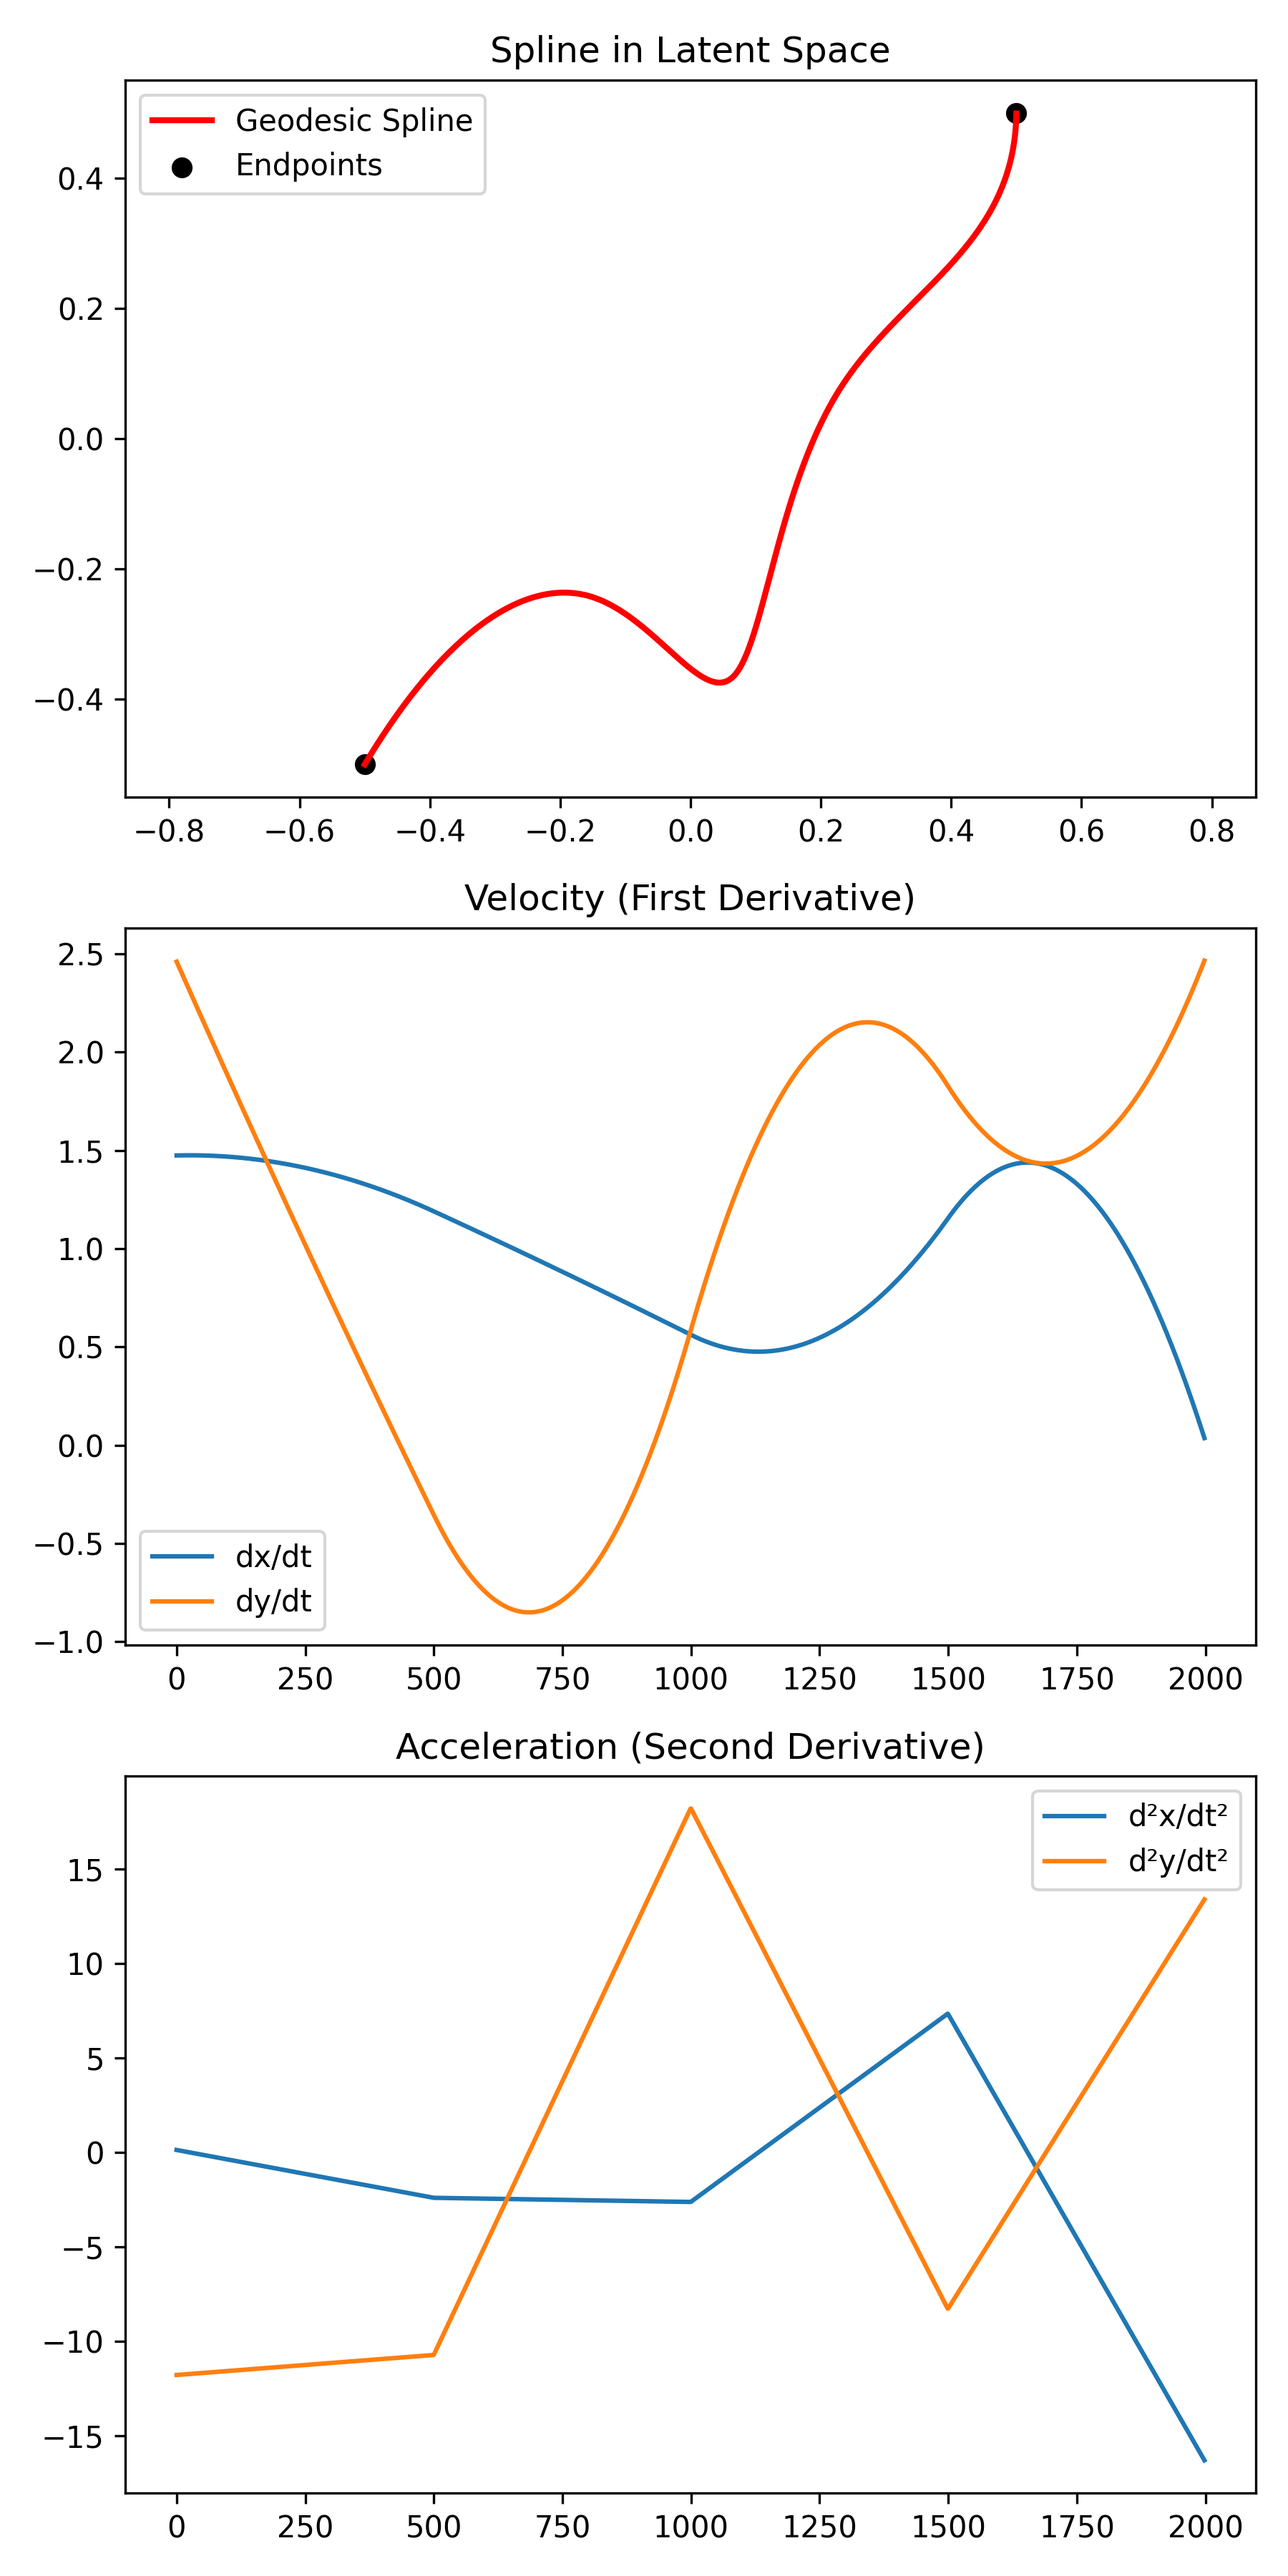
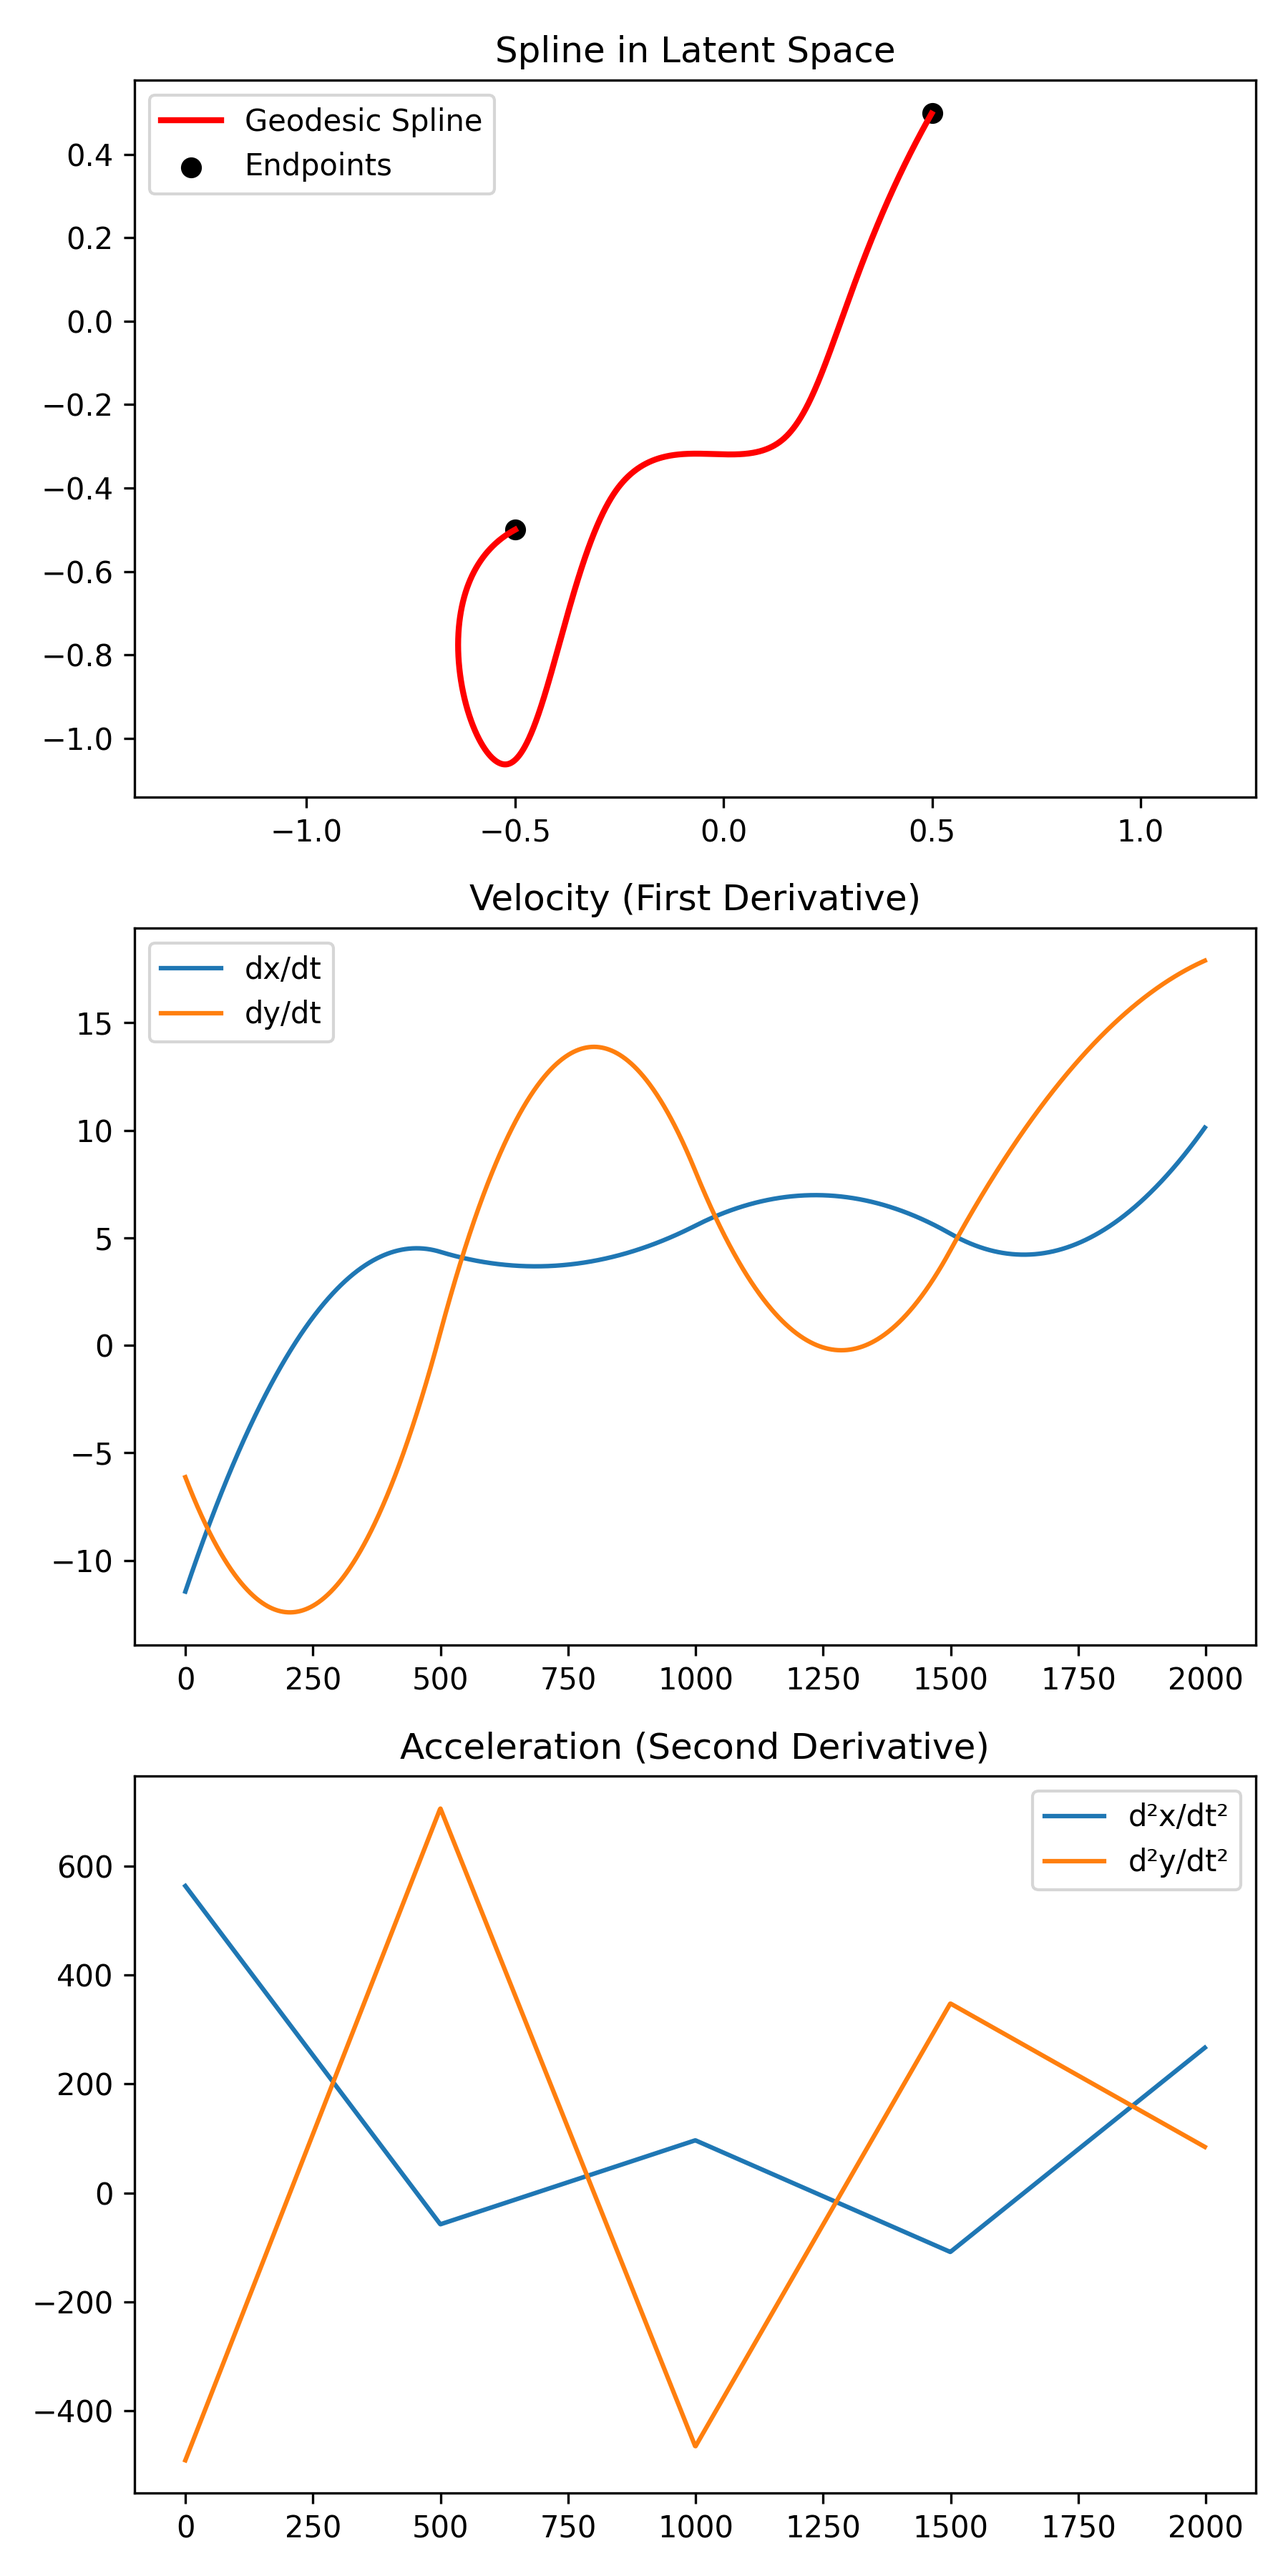
not yet 2nd

diff --git a/src/optimize_energy.py b/src/optimize_energy.py
@@ -6,6 +6,21 @@ import numpy as np
 from pathlib import Path
 from src.vae import VAE
 
+import random
+import os
+
+def set_seed(seed=12):
+    torch.manual_seed(seed)
+    np.random.seed(seed)
+    random.seed(seed)
+    torch.use_deterministic_algorithms(True)
+    os.environ["CUBLAS_WORKSPACE_CONFIG"] = ":4096:8"  # Needed for deterministic CUDA ops
+
+    if torch.cuda.is_available():
+        torch.cuda.manual_seed_all(seed)
+
+set_seed(12)  
+
 
 class GeodesicSpline(nn.Module):
     def __init__(self, point_pair, basis, n_poly):
@@ -13,20 +28,10 @@ class GeodesicSpline(nn.Module):
         self.a, self.b = point_pair
         self.n_poly = n_poly
         self.basis = basis
-        self.omega = nn.Parameter(torch.randn(basis.shape[1], self.a.shape[0]))
+        gen = torch.Generator(device=self.a.device).manual_seed(22)
+        self.omega = nn.Parameter(torch.randn(basis.shape[1], self.a.shape[0], generator=gen, device=self.a.device))
 
-    # def eval_piecewise_poly(self, t, coeffs):
-    #     if t.ndim == 2 and t.shape[1] == 1:
-    #         t = t.squeeze(1)  # (T,)
-    #     T = t.shape[0]
-    #     n_poly = coeffs.shape[0]
 
-    #     seg_idx = torch.clamp((t * n_poly).floor().long(), max=n_poly - 1)  # (T,)
-    #     local_t = t * n_poly - seg_idx.float()  # (T,)
-    #     powers = torch.stack([local_t**i for i in range(4)], dim=1)  # (T, 4)
-
-    #     segment_coefs = coeffs[seg_idx]  # (T, 4, d)
-    #     return torch.einsum("ti,tid->td", powers, segment_coefs)
     def eval_piecewise_poly(self, t, coeffs):
         t = t.flatten()
         seg_idx = torch.clamp((t * self.n_poly).floor().long(), max=self.n_poly - 1)
@@ -34,7 +39,6 @@ class GeodesicSpline(nn.Module):
         powers = torch.stack([local_t**i for i in range(4)], dim=1)  # (T, 4)
         seg_coefs = coeffs[seg_idx]  # (T, 4, dim)
         return torch.einsum("ti,tid->td", powers, seg_coefs)
-
 
     def forward(self, t):
         coeffs = self.basis @ self.omega  # (4n, dim)
@@ -46,7 +50,7 @@ class GeodesicSpline(nn.Module):
 
 
 def nullspace(C, rtol=1e-10):
-    C = C.to(torch.float64)  # important!
+    C = C.to(torch.float64)  
     U, S, Vh = torch.linalg.svd(C, full_matrices=True)
     rank = (S > rtol * S[0]).sum()
     return Vh.T[:, rank:].contiguous()
@@ -65,25 +69,25 @@ def construct_nullspace_basis(n_poly, device):
     # C0, C1, C2 continuity at internal knots
     for i in range(n_poly - 1):
         si = 4 * i  # start index
-        t = tc[i] # global t at knot i
-        t=1
+        # Local coordinate continuity: tL=1.0 (end of left), tR=0.0 (start of right)
+        tL, tR = 1.0, 0.0
 
-        # C0 continuity
-        c0 = torch.zeros(4 * n_poly, device=device, dtype=torch.float64)
-        c0[si:si+4]     = torch.tensor([1.0, t, t**2, t**3], dtype=torch.float64, device=device)   # left at t=1
-        c0[si+4:si+8]   = -torch.tensor([1.0, 0.0, 0.0, 0.0], dtype=torch.float64, device=device)       # right at t=0
+        # C0: continuity of position
+        c0 = torch.zeros(4 * n_poly, dtype=torch.float64, device=device)
+        c0[si:si+4] = torch.tensor([1, tL, tL**2, tL**3], device=device)
+        c0[si+4:si+8] = -torch.tensor([1, tR, tR**2, tR**3], device=device)
         rows.append(c0)
 
-        # C1 continuity
-        c1 = torch.zeros(4 * n_poly, device=device, dtype=torch.float64)
-        c1[si:si+4]     = torch.tensor([0.0, 1.0, 2.0*t, 3.0*t**2], dtype=torch.float64, device=device)        # d/dt left at t=1
-        c1[si+4:si+8]   = -torch.tensor([0.0, 1.0, 0.0, 0.0], dtype=torch.float64, device=device)       # d/dt right at t=0
+        # C1: continuity of first derivative
+        c1 = torch.zeros(4 * n_poly, dtype=torch.float64, device=device)
+        c1[si:si+4] = torch.tensor([0, 1, 2*tL, 3*tL**2], device=device)
+        c1[si+4:si+8] = -torch.tensor([0, 1, 2*tR, 3*tR**2], device=device)
         rows.append(c1)
 
-        # C2 continuity
-        c2 = torch.zeros(4 * n_poly, device=device, dtype=torch.float64)
-        c2[si:si+4]     = torch.tensor([0.0, 0.0, 2.0, 6.0*t], dtype=torch.float64, device=device)        # d²/dt² left at t=1
-        c2[si+4:si+8]   = -torch.tensor([0.0, 0.0, 2.0, 0.0], dtype=torch.float64, device=device)       # d²/dt² right at t=0
+        # C2: continuity of second derivative
+        c2 = torch.zeros(4 * n_poly, dtype=torch.float64, device=device)
+        c2[si:si+4] = torch.tensor([0, 0, 2, 6*tL], device=device)
+        c2[si+4:si+8] = -torch.tensor([0, 0, 2, 6*tR], device=device)
         rows.append(c2)
 
     C = torch.stack(rows)
@@ -96,61 +100,6 @@ def construct_nullspace_basis(n_poly, device):
     print(f"rank of C: {torch.linalg.matrix_rank(C)}")
     print(f"expected rank: {C.shape[0]}")
     return basis.to(dtype=torch.float32), C.to(dtype=torch.float32)
-
-
-# def construct_nullspace_basis(n_poly, device):
-#     t_knots = torch.linspace(0, 1, n_poly + 1, device=device, dtype=torch.float64)[1:-1]  # (n-1,) internal knots
-
-#     rows = []
-
-#     # Boundary conditions: gamma(0) = 0, gamma(1) = 0
-#     B = torch.zeros((2, 4 * n_poly), device=device, dtype=torch.float64)
-#     B[0, 0] = 1.0
-#     B[1, -4:] = 1.0
-#     rows.append(B[0])
-#     rows.append(B[1])
-
-#     # Continuity constraints: C0, C1, C2 at internal knots
-#     for i, t in enumerate(t_knots):
-#         si = 4 * i
-
-#         c0 = torch.zeros(4 * n_poly, device=device, dtype=torch.float64)
-#         c0[si:si+4] = torch.tensor([1.0, t, t**2, t**3], device=device, dtype=torch.float64)
-#         c0[si+4:si+8] = -c0[si:si+4]
-#         #print(f"c0 shape: {c0.shape}")
-#         rows.append(c0)
-
-#         c1 = torch.zeros(4 * n_poly, device=device, dtype=torch.float64)
-#         c1[si:si+4] = torch.tensor([0.0, 1.0, 2*t, 3*t**2], device=device, dtype=torch.float64)
-#         c1[si+4:si+8] = -c1[si:si+4]
-#         rows.append(c1)
-
-#         c2 = torch.zeros(4 * n_poly, device=device, dtype=torch.float64)
-#         c2[si:si+4] = torch.tensor([0.0, 0.0, 2.0, 6*t], device=device, dtype=torch.float64)
-#         c2[si+4:si+8] = -c2[si:si+4]
-#         rows.append(c2)
-
-#     C = torch.stack(rows)  # shape: (3(n-1) + 2, 4n) = (11, 16) for n=4
-
-#     #_, S, Vh = torch.linalg.svd(C)
-#     #basis = Vh.T[:, C.shape[0]:].contiguous()
-#     basis = nullspace(C)  # will now be high precision
-#     basis = torch.linalg.qr(basis)[0]  # makes it orthonormal
-#     residual = torch.norm(C @ basis)
-#     print(f"New residual: {residual:.2e}")
-#     print(f"rank of C: {torch.linalg.matrix_rank(C)}")
-#     print(f"expected rank: {C.shape[0]}")
-
-#     #print(f"norm: {torch.norm(C @ basis).item()}")
-#     #print("Constructed constraint matrix C with shape:", C.shape)
-#     #print("SVD singular values:", S)
-#     # Check nullspace property
-#     #print("Nullspace check (C @ basis):", torch.norm(C @ basis).item())
-#     #print("Basis shape:", basis.shape)
-#     basis = basis.to(dtype=torch.float32)
-#     C = C.to(dtype=torch.float32)
-#     return basis, C  # shape: (4n, d_free)
-
 
 
 
@@ -239,11 +188,11 @@ if __name__ == "__main__":
     # Derivatives
     dz = torch.zeros_like(z)
     for i in range(z.shape[1]):
-        dz[:, i] = torch.autograd.grad(z[:, i], t, grad_outputs=torch.ones_like(t), create_graph=True)[0]
+        dz[:, i] = torch.autograd.grad(z[:, i], t, grad_outputs=torch.ones_like(t), create_graph=True)[0] * n_poly
 
     ddz = torch.zeros_like(z)
     for i in range(dz.shape[1]):
-        ddz[:, i] = torch.autograd.grad(dz[:, i], t, grad_outputs=torch.ones_like(t), create_graph=True)[0]
+        ddz[:, i] = torch.autograd.grad(dz[:, i], t, grad_outputs=torch.ones_like(t), create_graph=True)[0] * n_poly
 
     print("Spline shape:", z.shape)
     print("Velocity shape:", dz.shape)

diff --git a/src/energy.py b/src/energy.py
@@ -1,0 +1,145 @@
+import torch
+import torch.nn as nn
+import os
+import matplotlib.pyplot as plt
+import numpy as np
+from src.vae import VAE
+
+def set_seed(seed=12):
+    torch.manual_seed(seed)
+    np.random.seed(seed)
+    torch.use_deterministic_algorithms(True)
+    os.environ["CUBLAS_WORKSPACE_CONFIG"] = ":4096:8"
+    if torch.cuda.is_available():
+        torch.cuda.manual_seed_all(seed)
+
+set_seed(12)
+
+class TorchGeodesic(nn.Module):
+    def __init__(self, decoder, n_poly, point_pair, device='cpu'):
+        super().__init__()
+        self.decoder = decoder
+        self.n_poly = n_poly
+        self.point_pair = point_pair.to(device)
+        self.device = device
+        self.basis = self.init_basis()
+        self.dim = point_pair.shape[-1]
+        gen = torch.Generator(device=device).manual_seed(12)
+        self.params = nn.Parameter(torch.randn((self.basis.shape[1], self.dim), generator=gen, device=device))
+
+    def forward(self, t):
+        line = self._eval_line(t)
+        poly = self._eval_poly(t)
+        return (line + poly).T
+
+    def calculate_energy(self, t_):
+        latent = self.forward(t_)
+        decoded = self.decoder(latent).mean
+        diff = decoded[:, 1:] - decoded[:, :-1]
+        energy = torch.sum(torch.sum(diff ** 2, dim=-1)) * (len(t_) - 1)
+        return energy
+
+    def _basis(self):
+        np_ = self.n_poly
+        tc = torch.linspace(0, 1, np_ + 1, device=self.device)[1:-1]
+        boundary = torch.zeros((2, 4 * np_), device=self.device)
+        boundary[0, 0] = 1.0
+        boundary[1, -4:] = 1.0
+
+        zeroth = torch.zeros((np_ - 1, 4 * np_), device=self.device)
+        first = torch.zeros((np_ - 1, 4 * np_), device=self.device)
+        second = torch.zeros((np_ - 1, 4 * np_), device=self.device)
+
+        for i in range(np_ - 1):
+            si = 4 * i
+            h = 1.0 / np_
+            t = (i + 1) * h
+            fill_0 = torch.tensor([1, t, t ** 2, t ** 3], device=self.device)
+            zeroth[i, si:si+4] = fill_0
+            zeroth[i, si+4:si+8] = -fill_0
+            fill_1 = torch.tensor([0, 1, 2*t, 3*t**2], device=self.device)
+            first[i, si:si+4] = fill_1
+            first[i, si+4:si+8] = -fill_1
+            fill_2 = torch.tensor([0, 0, 2, 6*t], device=self.device)
+            second[i, si:si+4] = fill_2
+            second[i, si+4:si+8] = -fill_2
+
+        constraints = torch.cat((boundary, zeroth, first, second), dim=0)
+        _, S, Vh = torch.linalg.svd(constraints)
+        return Vh.T[:, S.size()[0]:]
+
+    def init_basis(self):
+        return self._basis()
+
+    def _eval_line(self, t):
+        p0, p1 = self.point_pair[0, :], self.point_pair[1, :]
+        return ((1 - t)[:, None] * p0 + t[:, None] * p1).T
+
+    def _eval_poly(self, t):
+        coefs = self.basis @ self.params
+        coefs = coefs.view(self.n_poly, 4, self.dim)
+        t_scaled = t * self.n_poly
+        idx = torch.floor(t_scaled).clamp(0, self.n_poly - 1).long()
+        local_t = t_scaled - idx.float()
+        tp = torch.stack([local_t**i for i in range(4)], dim=1)
+        seg_coefs = coefs[idx]
+        return torch.einsum("ti,tid->td", tp, seg_coefs).T
+
+def main():
+    device = torch.device("cuda" if torch.cuda.is_available() else "cpu")
+    decoder_path = "src/artifacts/vae_best.pth"
+    input_dim = 50
+    latent_dim = 2
+    vae = VAE(input_dim=input_dim, latent_dim=latent_dim).to(device)
+    vae.load_state_dict(torch.load(decoder_path, map_location=device))
+    vae.eval()
+    decoder = vae.decoder
+
+    n_poly = 4
+    point_pair = torch.tensor([[-0.5, -0.5], [0.5, 0.5]], dtype=torch.float32, device=device)
+    spline = TorchGeodesic(decoder, n_poly, point_pair, device=device).to(device)
+
+    from src.optimize_energy import optimize_spline
+    spline = optimize_spline(spline, decoder, None, steps=1000, lr=1e-2, patience=500)
+
+    t = torch.linspace(0, 1, 2000, device=device, requires_grad=True)
+    z = spline(t)
+    dz = torch.zeros_like(z)
+    for i in range(z.shape[1]):
+        dz[:, i] = torch.autograd.grad(z[:, i], t, grad_outputs=torch.ones_like(t), create_graph=True)[0] * spline.n_poly
+    ddz = torch.zeros_like(z)
+    for i in range(dz.shape[1]):
+        ddz[:, i] = torch.autograd.grad(dz[:, i], t, grad_outputs=torch.ones_like(t), create_graph=True)[0] * spline.n_poly
+
+    z_np = z.detach().cpu().numpy()
+    dz_np = dz.detach().cpu().numpy()
+    ddz_np = ddz.detach().cpu().numpy()
+
+    fig, axs = plt.subplots(3, 1, figsize=(6, 12))
+    axs[0].plot(z_np[:, 0], z_np[:, 1], 'r-', lw=2, label='Geodesic Spline')
+    axs[0].scatter([point_pair[0,0].item(), point_pair[1,0].item()], [point_pair[0,1].item(), point_pair[1,1].item()], c='black', label='Endpoints')
+    axs[0].set_title("Spline in Latent Space")
+    axs[0].axis("equal")
+    axs[0].legend()
+
+    axs[1].plot(dz_np[:, 0], label="dx/dt")
+    axs[1].plot(dz_np[:, 1], label="dy/dt")
+    axs[1].set_title("Velocity (First Derivative)")
+    axs[1].legend()
+
+    axs[2].plot(ddz_np[:, 0], label="d²x/dt²")
+    axs[2].plot(ddz_np[:, 1], label="d²y/dt²")
+    axs[2].set_title("Acceleration (Second Derivative)")
+    axs[2].legend()
+
+    print("Spline start:", z_np[0])
+    print("Spline end:  ", z_np[-1])
+    print("Expected a:  ", point_pair[0].cpu().numpy())
+    print("Expected b:  ", point_pair[1].cpu().numpy())
+
+    plt.tight_layout()
+    plt.savefig("src/plots/spline_loaded_2.png", dpi=300)
+    print("Saved plot to src/plots/spline_loaded_2.png")
+
+if __name__ == "__main__":
+    main()

diff --git a/src/opt_energy.py b/src/opt_energy.py
@@ -113,7 +113,7 @@ def main():
 
     print(f"Number of free parameters: {geodesic_model.params.shape[0]}")
 
-    # --- 🔧 Optimize the geodesic_model.params ---
+    # --- Optimize the geodesic_model.params ---
     geodesic_model.train()
     t_vals = torch.linspace(0, 1, 2000, device=device)
 
@@ -125,7 +125,7 @@ def main():
 
     print("\nOptimizing geodesic parameters...")
 
-    for step in range(1000):
+    for step in range(5000):
         optimizer.zero_grad()
         loss = geodesic_model.calculate_energy(t_vals)
         loss.backward()
